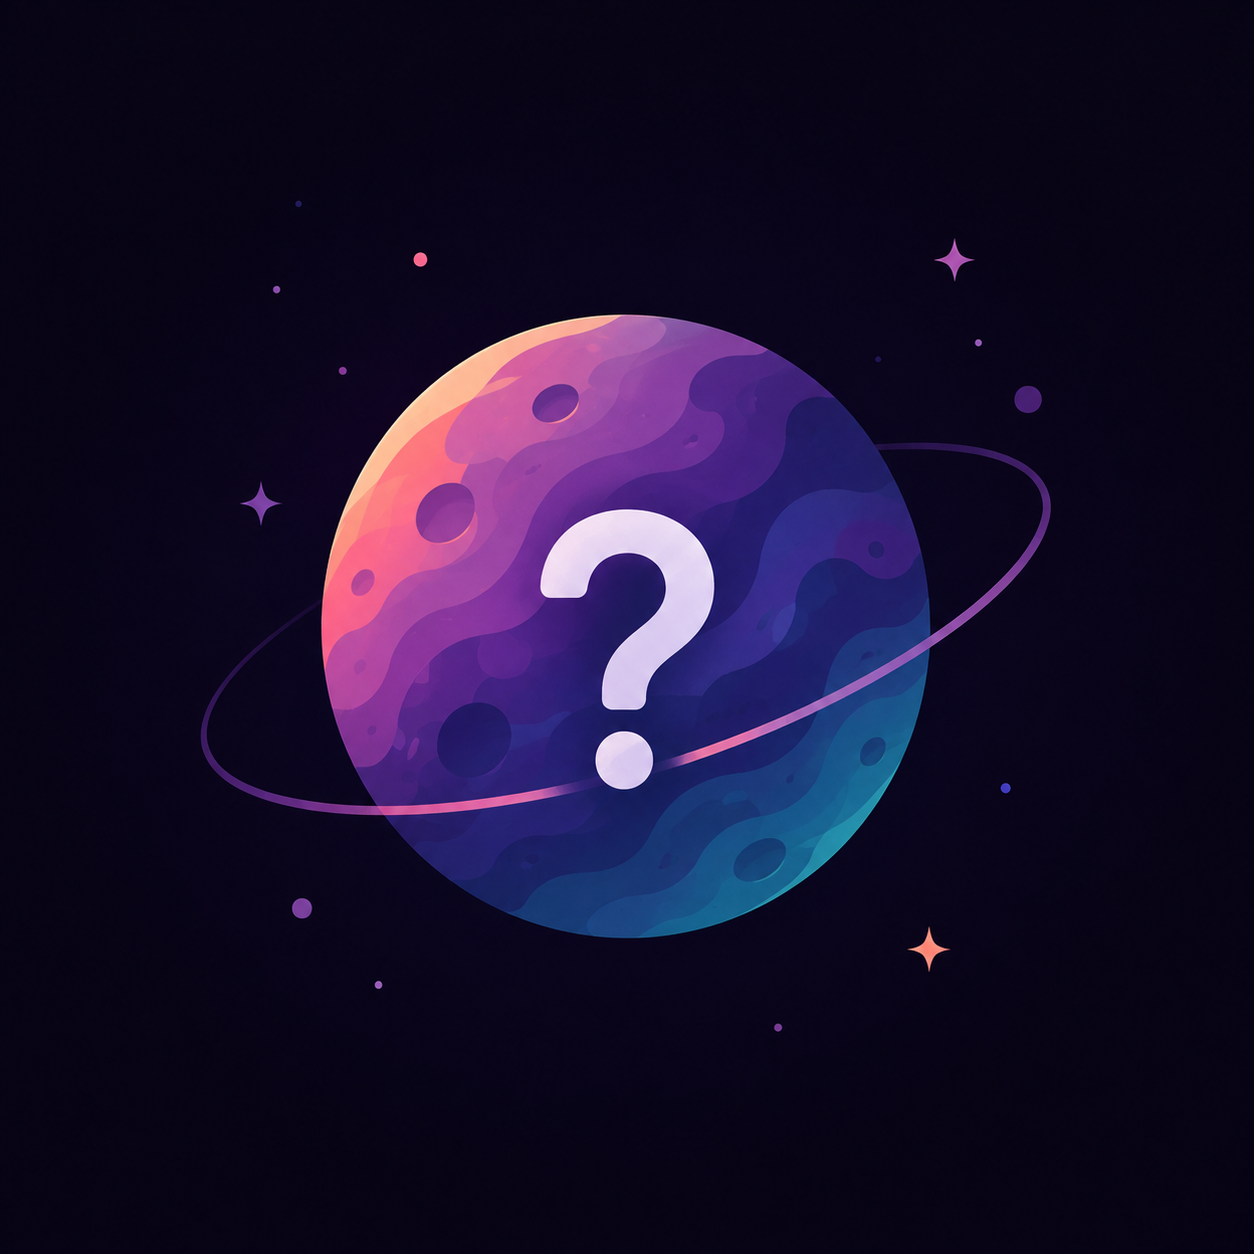
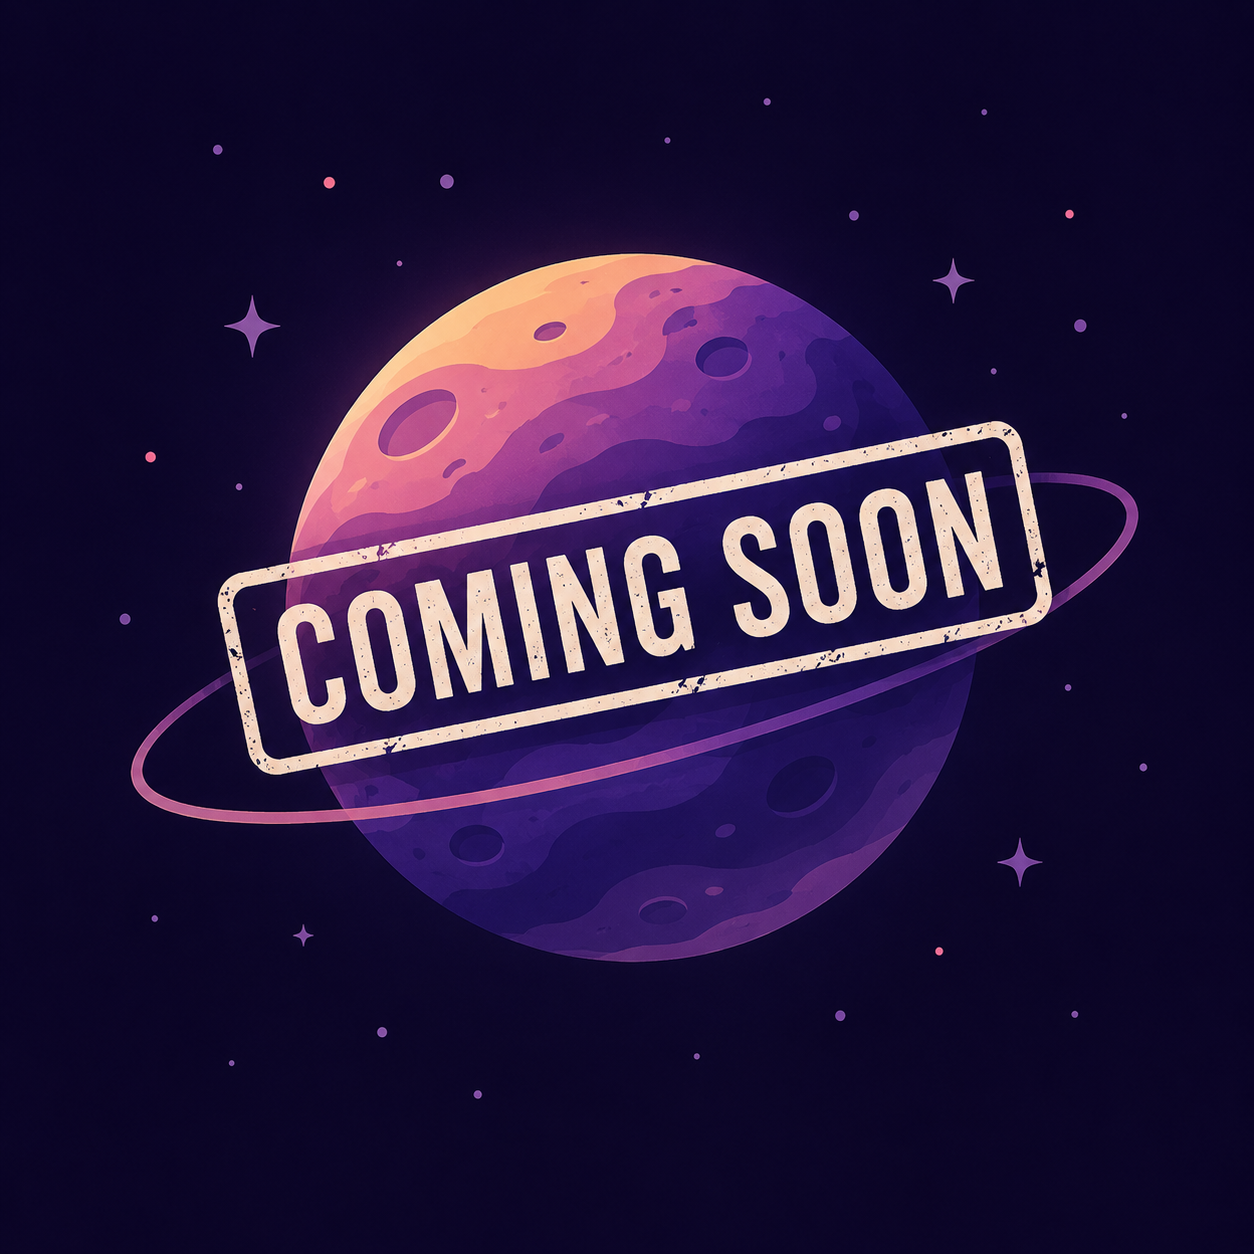
Planet X Image Updated

diff --git a/index.html b/index.html
@@ -968,7 +968,7 @@
       {
         id: 'Planetx',
         title: 'Planet-X',
-        thumbnailImage: 'images/planetX/thumbnail.png',
+        thumbnailImage: 'images/planetx/thumbnail.png',
         images: [],
         tag: 'Planet Configurator',
         tagClass: 'tag-graphics-engine',
